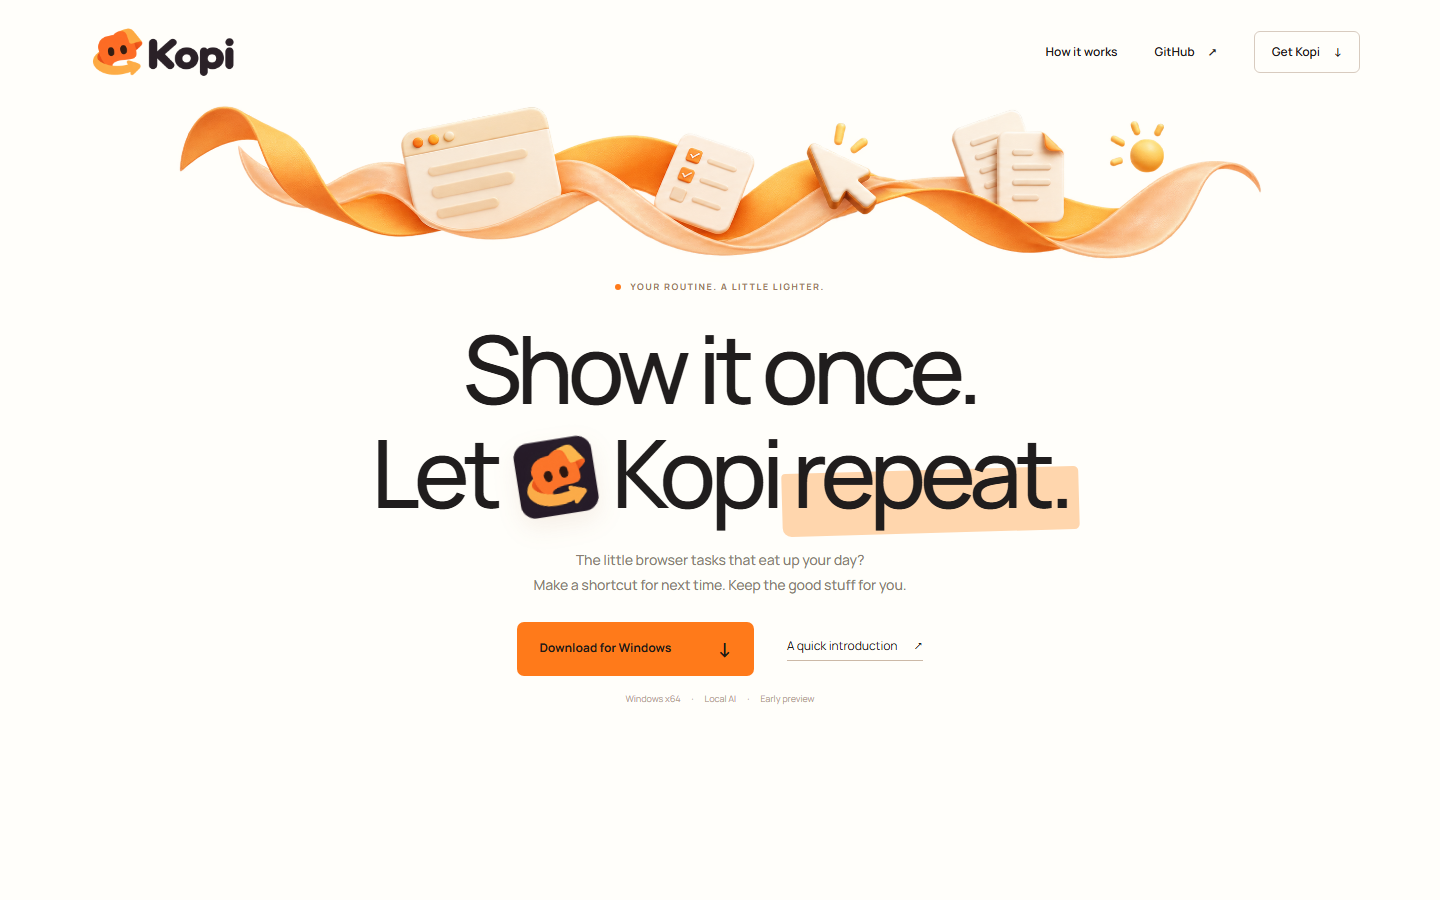
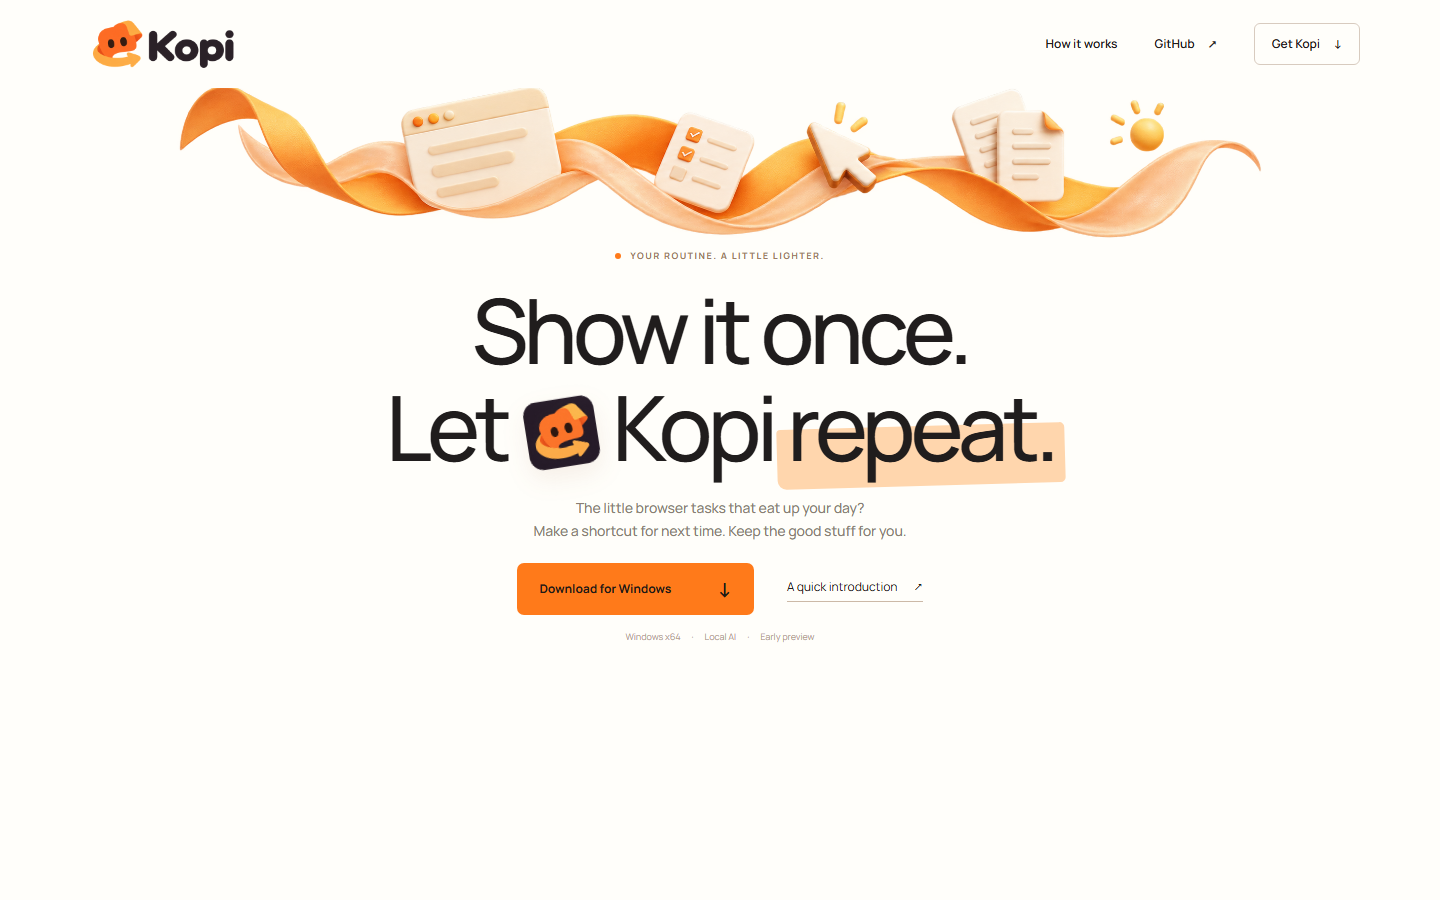
Prevent cached hero styles and keep download button above fold

diff --git a/site/index.html b/site/index.html
@@ -4,13 +4,13 @@
 <meta charset="utf-8"><meta name="viewport" content="width=device-width, initial-scale=1"><meta name="theme-color" content="#FFFEFA">
 <meta name="description" content="Show Kopi a browser routine once. Make a reusable workflow with local AI, in the browser you're already signed into.">
 <title>Kopi — Show it once. Let Kopi repeat.</title>
-<link rel="icon" href="assets/kopi-logo.png"><link rel="preconnect" href="https://fonts.googleapis.com"><link rel="preconnect" href="https://fonts.gstatic.com" crossorigin><link href="https://fonts.googleapis.com/css2?family=Manrope:wght@400;500;600;700;800&display=swap" rel="stylesheet"><link rel="stylesheet" href="style.css">
+<link rel="icon" href="assets/kopi-logo.png"><link rel="preconnect" href="https://fonts.googleapis.com"><link rel="preconnect" href="https://fonts.gstatic.com" crossorigin><link href="https://fonts.googleapis.com/css2?family=Manrope:wght@400;500;600;700;800&display=swap" rel="stylesheet"><link rel="stylesheet" href="style.css?v=hero-fit-20261024-2">
 </head>
 <body>
 <a class="skip-link" href="#main">Skip to content</a>
 <header class="site-header wrap"><a class="wordmark" href="#" aria-label="Kopi home"><img src="assets/kopi-wordmark.png" alt="Kopi" width="166" height="62"></a><nav aria-label="Main navigation"><a href="#how-it-works">How it works</a><a href="https://github.com/MLouchini/Kopi">GitHub <span aria-hidden="true">↗</span></a><a class="nav-download" href="#download">Get Kopi <span aria-hidden="true">↓</span></a></nav></header>
 <main id="main">
-<div class="hero-wave" aria-hidden="true"><img src="assets/hero-wave.png" alt="" width="1920" height="220" fetchpriority="high"></div>
+<div class="hero-wave" aria-hidden="true"><img src="assets/hero-wave.png" alt="" width="2048" height="680" fetchpriority="high"></div>
 <section class="hero wrap" aria-labelledby="hero-title">
 <div class="hero-eyebrow"><span></span> YOUR ROUTINE. A LITTLE LIGHTER.</div>
 <h1 id="hero-title">Show it once.<br>Let <img class="inline-logo" src="assets/kopi-logo.png" alt="" width="116" height="116"> Kopi <mark>repeat.</mark></h1>
@@ -31,3 +31,4 @@
 <footer class="site-footer wrap"><a class="wordmark" href="#" aria-label="Kopi home"><img src="assets/kopi-wordmark.png" alt="Kopi" width="139" height="52" loading="lazy"></a><p>Life's too short for the same clicks.</p><div><a href="https://github.com/MLouchini/Kopi">GitHub ↗</a><a href="https://github.com/MLouchini/Kopi/blob/main/docs/privacy.md">Privacy &amp; permissions ↗</a></div></footer>
 </body>
 </html>
+

diff --git a/site/style.css b/site/style.css
@@ -11,5 +11,17 @@
 @media(prefers-reduced-motion:reduce){html{scroll-behavior:auto}*,*:before,*:after{transition:none!important;animation:none!important}}
 .hero-wave{position:relative;width:100%;height:168px;margin:-10px auto -27px;pointer-events:none;overflow:hidden}.hero-wave img{display:block;width:100%;height:100%;object-fit:cover;object-position:center}.hero{padding-top:36px}@media(max-width:650px){.hero-wave{height:110px;margin:0 auto -16px}.hero{padding-top:31px}}
 
-/* The wave, title and download action fit together in the first desktop viewport. */
-@media(min-width:651px){.site-header{height:104px}.hero-wave{height:160px;margin:0}.hero-wave img{position:absolute;width:min(1100px,100%);height:auto;max-width:none;left:50%;top:50%;transform:translate(-50%,-50%);object-fit:contain}.hero{min-height:calc(100svh - 264px);padding-top:15px;padding-bottom:25px;display:flex;flex-direction:column;align-items:center;justify-content:flex-start}.hero-eyebrow{margin-bottom:22px;font-size:9px}h1{font-size:clamp(70px,10.5svh,108px);line-height:1.1;letter-spacing:-5.8px}.inline-logo{width:clamp(75px,10svh,104px);height:clamp(75px,10svh,104px);margin-top:-12px}.hero-intro{font-size:14px;line-height:1.8;margin:23px auto 24px}.hero-actions .button{min-height:54px;padding:14px 22px}.hero-footnote{font-size:9px;margin-top:15px}.scene-section{margin-top:35px}}
+/* Keep the complete desktop hero and download action inside the first viewport. */
+@media(min-width:651px){
+.site-header{height:88px}
+.hero-wave{height:150px;margin:0;overflow:hidden}
+.hero-wave img{position:absolute;width:min(1100px,calc(100vw - 48px));height:auto;max-width:none;left:50%;top:50%;transform:translate(-50%,-50%);object-fit:contain}
+.hero{min-height:calc(100vh - 238px);padding-top:10px;padding-bottom:24px;display:flex;flex-direction:column;align-items:center;justify-content:flex-start}
+.hero-eyebrow{margin-bottom:18px;font-size:9px}
+h1{font-size:clamp(60px,10vh,100px);line-height:1.08;letter-spacing:-5px}
+.inline-logo{width:clamp(64px,9vh,96px);height:clamp(64px,9vh,96px);margin-top:-10px}
+.hero-intro{font-size:14px;line-height:1.7;margin:20px auto}
+.hero-actions .button{min-height:52px;padding:13px 22px}
+.hero-footnote{font-size:9px;margin-top:14px}
+.scene-section{margin-top:28px}
+}
